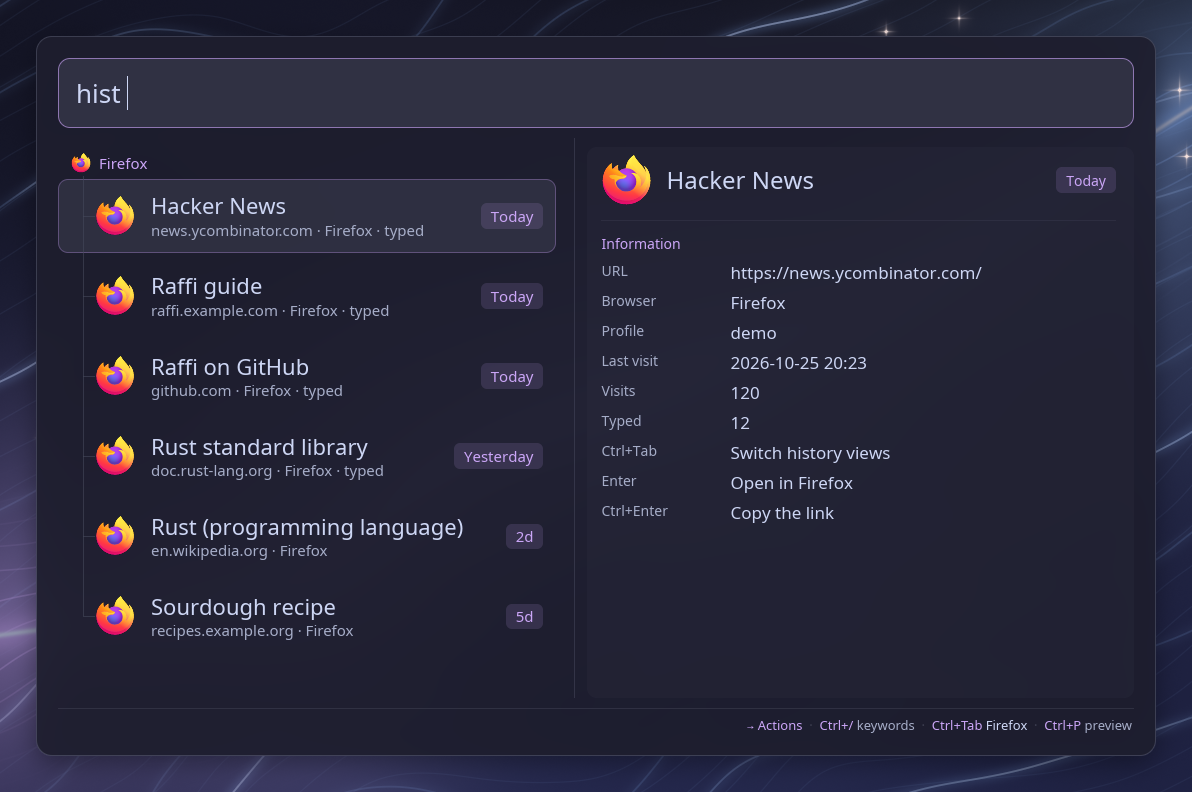
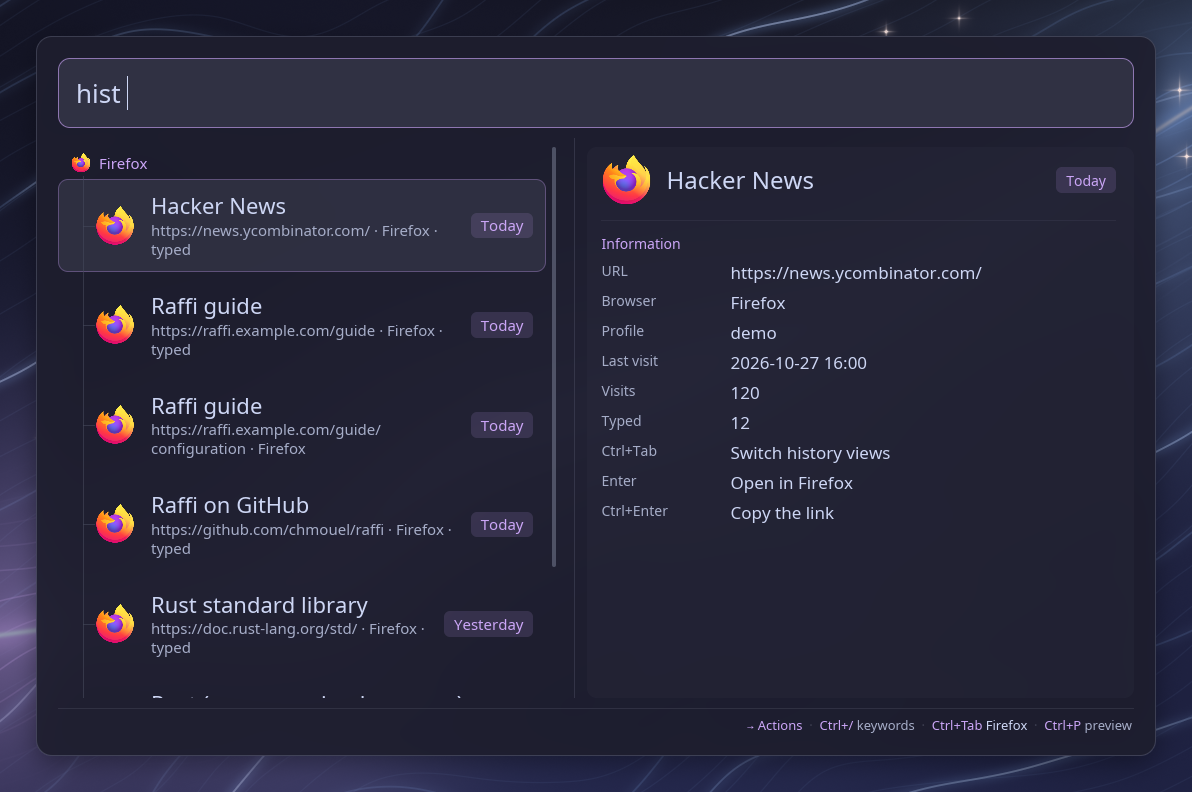
feat: Display full page URLs in browser history subtitles
Displayed the complete page URL instead of just the host name in the
browser history subtitles. This allowed users to easily distinguish
between different pages that share the exact same title.

diff --git a/src/ui/wayland/browser_history.rs b/src/ui/wayland/browser_history.rs
@@ -491,12 +491,7 @@ fn item_for_merged(
     let entry = latest.entry;
     let title = title(&merged.occurrences);
     let profiles = profiles(&merged.occurrences);
-    let host = if entry.host.is_empty() {
-        entry.url.as_str()
-    } else {
-        entry.host.as_str()
-    };
-    let mut subtitle = format!("{host} · {}", source.label);
+    let mut subtitle = format!("{} · {}", entry.url, source.label);
     if profiles.len() > 1 {
         subtitle.push_str(&format!(" + {} more", profiles.len() - 1));
     }
@@ -562,12 +557,7 @@ fn item_for_source(
     options: RowOptions,
     now: DateTime<Local>,
 ) -> CommandItem {
-    let host = if entry.host.is_empty() {
-        entry.url.as_str()
-    } else {
-        entry.host.as_str()
-    };
-    let mut subtitle = format!("{host} · {}", source.label);
+    let mut subtitle = format!("{} · {}", entry.url, source.label);
     if totals.typed > 0 {
         subtitle.push_str(" · typed");
     }
@@ -1756,6 +1746,44 @@ mod tests {
             .iter()
             .any(|(key, value)| key == "Profiles" && value == "Brave, Firefox"));
         assert!(raffi.badge.is_some());
+        assert_eq!(
+            raffi.subtitle,
+            "https://github.com/chmouel/raffi?utm_source=news · Brave + 1 more · typed"
+        );
+    }
+
+    #[test]
+    fn test_history_subtitles_distinguish_pages_with_the_same_title() {
+        let mut library = fixture_group_library("Firefox");
+        let urls = [
+            "https://chatgpt.com/codex/settings/usage",
+            "https://chatgpt.com/codex/settings/usage?period=weekly#limits",
+        ];
+        library.sources[0].entries = urls
+            .iter()
+            .map(|url| {
+                Entry::new(
+                    canonical_url(url).unwrap(),
+                    (*url).to_string(),
+                    "Settings".to_string(),
+                    1_700_000_000,
+                    1,
+                    0,
+                )
+            })
+            .collect();
+        for view in [View::Recent, View::ByBrowser] {
+            let rows = rows(&library, view, &Filters::default(), options());
+            assert_eq!(rows.items.len(), urls.len());
+            for url in urls {
+                let item = rows
+                    .items
+                    .iter()
+                    .find(|item| item.subtitle == format!("{url} · Firefox"))
+                    .unwrap();
+                assert_eq!(item.title, "Settings");
+            }
+        }
     }
 
     #[test]

diff --git a/misc/screenshots/fixtures/demo.py b/misc/screenshots/fixtures/demo.py
@@ -189,6 +189,7 @@ def _firefox_history(conn):
     rows = [
         ("https://news.ycombinator.com/", "Hacker News", 120, 12, now - 30 * 60),
         ("https://raffi.example.com/guide", "Raffi guide", 42, 3, now - 2 * 60 * 60),
+        ("https://raffi.example.com/guide/configuration", "Raffi guide", 18, 0, now - 150 * 60),
         ("https://github.com/chmouel/raffi", "Raffi on GitHub", 15, 2, now - 3 * 60 * 60),
         ("https://doc.rust-lang.org/std/", "Rust standard library", 8, 1, now - 26 * 60 * 60),
         ("https://en.wikipedia.org/wiki/Rust_(programming_language)", "Rust (programming language)", 9, 0, now - 2 * 86400),

diff --git a/src/ui/wayland/tests.rs b/src/ui/wayland/tests.rs
@@ -11903,6 +11903,10 @@ fn test_browser_history_stale_debounce_after_leaving_is_ignored() {
 fn test_browser_history_filters_and_opens_pages() {
     let mut app = browser_history_app("hist site:github.com");
     assert_eq!(command_list_titles(&app), ["Raffi"]);
+    assert_eq!(
+        app.command_list.items[app.command_list.filtered[0]].subtitle,
+        "https://github.com/chmouel/raffi · Firefox · typed"
+    );
     let _ = app.update(Message::CommandListSelected(0));
     assert!(matches!(
         deferred_action(&app),
